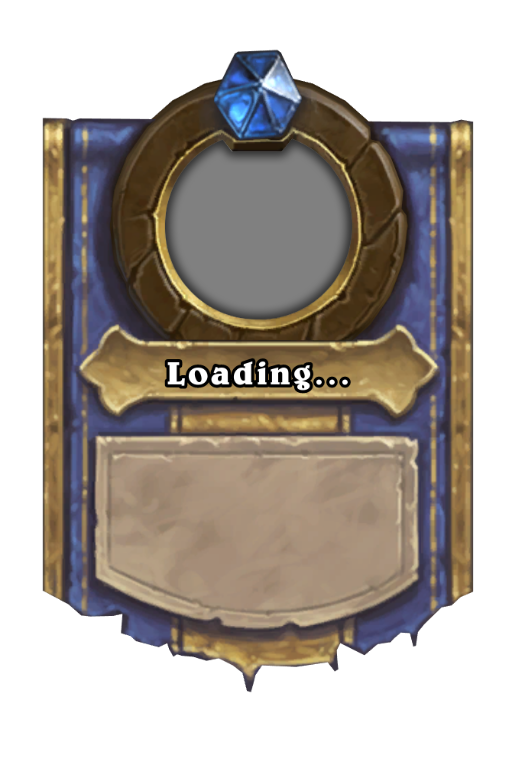
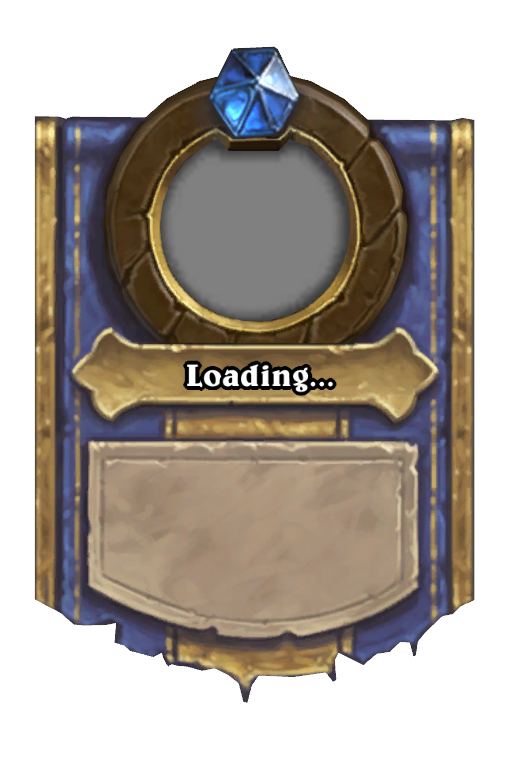
feat: update placeholder

diff --git a/src/viewer/Card.tsx b/src/viewer/Card.tsx
@@ -92,7 +92,11 @@ class Card extends React.Component<Props & CardsProps & TwitchExtProps> {
 					style={{ ...centered, maxHeight: "100%", maxWidth: "100%" }}
 					resolution={512}
 					locale={locale}
-					placeholder={getPlaceholder(getType(primary))}
+					placeholder={getPlaceholder(
+						getType(primary),
+						this.props.battlegrounds ?? false,
+					)}
+					battlegrounds={this.props.battlegrounds}
 				/>
 			);
 		}
@@ -122,9 +126,17 @@ class Card extends React.Component<Props & CardsProps & TwitchExtProps> {
 					style={{ height }}
 					resolution={512}
 					locale={locale}
-					placeholder={getPlaceholder(getType(primary))}
+					placeholder={getPlaceholder(
+						getType(primary),
+						this.props.battlegrounds ?? false,
+					)}
 				/>
-				{this.renderExtras(extras, extraHeight, locale)}
+				{this.renderExtras(
+					extras,
+					extraHeight,
+					locale,
+					this.props.battlegrounds ?? false,
+				)}
 			</div>
 		);
 	}
@@ -202,7 +214,10 @@ class Card extends React.Component<Props & CardsProps & TwitchExtProps> {
 				resolution={512}
 				locale={locale}
 				notFound={getNotFound(getType(primary))}
-				placeholder={getPlaceholder(getType(primary))}
+				placeholder={getPlaceholder(
+					getType(primary),
+					this.props.battlegrounds ?? false,
+				)}
 				battlegrounds={this.props.battlegrounds}
 				triple={triple}
 			/>
@@ -229,7 +244,7 @@ class Card extends React.Component<Props & CardsProps & TwitchExtProps> {
 					extras,
 					extraHeight,
 					locale,
-					this.props.battlegrounds,
+					this.props.battlegrounds ?? false,
 				)}
 			</div>
 		);
@@ -239,7 +254,7 @@ class Card extends React.Component<Props & CardsProps & TwitchExtProps> {
 		extras: ResolvedCard[],
 		height: number,
 		locale: HearthstoneLocale,
-		battlegrounds?: boolean,
+		battlegrounds: boolean,
 	): React.ReactNode {
 		return (
 			<div
@@ -258,7 +273,7 @@ class Card extends React.Component<Props & CardsProps & TwitchExtProps> {
 						resolution={512}
 						locale={locale}
 						notFound={getNotFound(getType(extra))}
-						placeholder={getPlaceholder(getType(extra))}
+						placeholder={getPlaceholder(getType(extra), battlegrounds)}
 						battlegrounds={battlegrounds}
 					/>
 				))}

diff --git a/src/viewer/placeholders/index.ts b/src/viewer/placeholders/index.ts
@@ -3,19 +3,38 @@ import HeroPowerPlaceholder from "./hero_power.png";
 import MinionPlaceholder from "./minion.png";
 import SpellPlaceholder from "./spell.png";
 import WeaponPlaceholder from "./weapon.png";
+import LocationPlaceholder from "./location.png";
+import BattlegroundsMinionPlaceholder from "./bgs_minion.png";
+import BattlegroundsHeroPowerPlaceholder from "./bgs_hero_power.png";
+import BattlegroundsQuestRewardPlaceholder from "./bgs_quest_reward.png";
+import BattlegroundsSpellPlaceholder from "./bgs_spell.png";
+import BattlegroundsAnomalyPlaceholder from "./bgs_anomaly.png";
+import BattlegroundsTrinketPlaceholder from "./bgs_trinket.png";
 
-const getPlaceholder = (type: string): string => {
+const getPlaceholder = (type: string, battlegrounds: boolean): string => {
 	switch (("" + type).toUpperCase()) {
 		case "SPELL":
 			return SpellPlaceholder;
 		case "WEAPON":
 			return WeaponPlaceholder;
+		case "LOCATION":
+			return LocationPlaceholder;
 		case "HERO":
 			return HeroPlaceholder;
 		case "HERO_POWER":
+			if (battlegrounds) return BattlegroundsHeroPowerPlaceholder;
 			return HeroPowerPlaceholder;
+		case "BATTLEGROUNDS_QUEST_REWARD":
+			return BattlegroundsQuestRewardPlaceholder;
+		case "BATTLEGROUNDS_SPELL":
+			return BattlegroundsSpellPlaceholder;
+		case "BATTLEGROUNDS_ANOMALY":
+			return BattlegroundsAnomalyPlaceholder;
+		case "BATTLEGROUNDS_TRINKET":
+			return BattlegroundsTrinketPlaceholder;
 		default:
 		case "MINION":
+			if (battlegrounds) return BattlegroundsMinionPlaceholder;
 			return MinionPlaceholder;
 	}
 };

diff --git a/CHANGELOG.md b/CHANGELOG.md
@@ -4,6 +4,10 @@ All notable changes to this project will be documented in this file.
 The format is based on [Keep a Changelog](http://keepachangelog.com/en/1.0.0/)
 and this project adheres to [Semantic Versioning](http://semver.org/spec/v2.0.0.html).
 
+## [Unreleased]
+### Added
+- Added Battlegrounds-specific image placeholders.
+
 ## [1.6.0] - 2026-08-21
 ### Added
 - Added support for showing Battlegrounds Dark Gifts in the overlay
